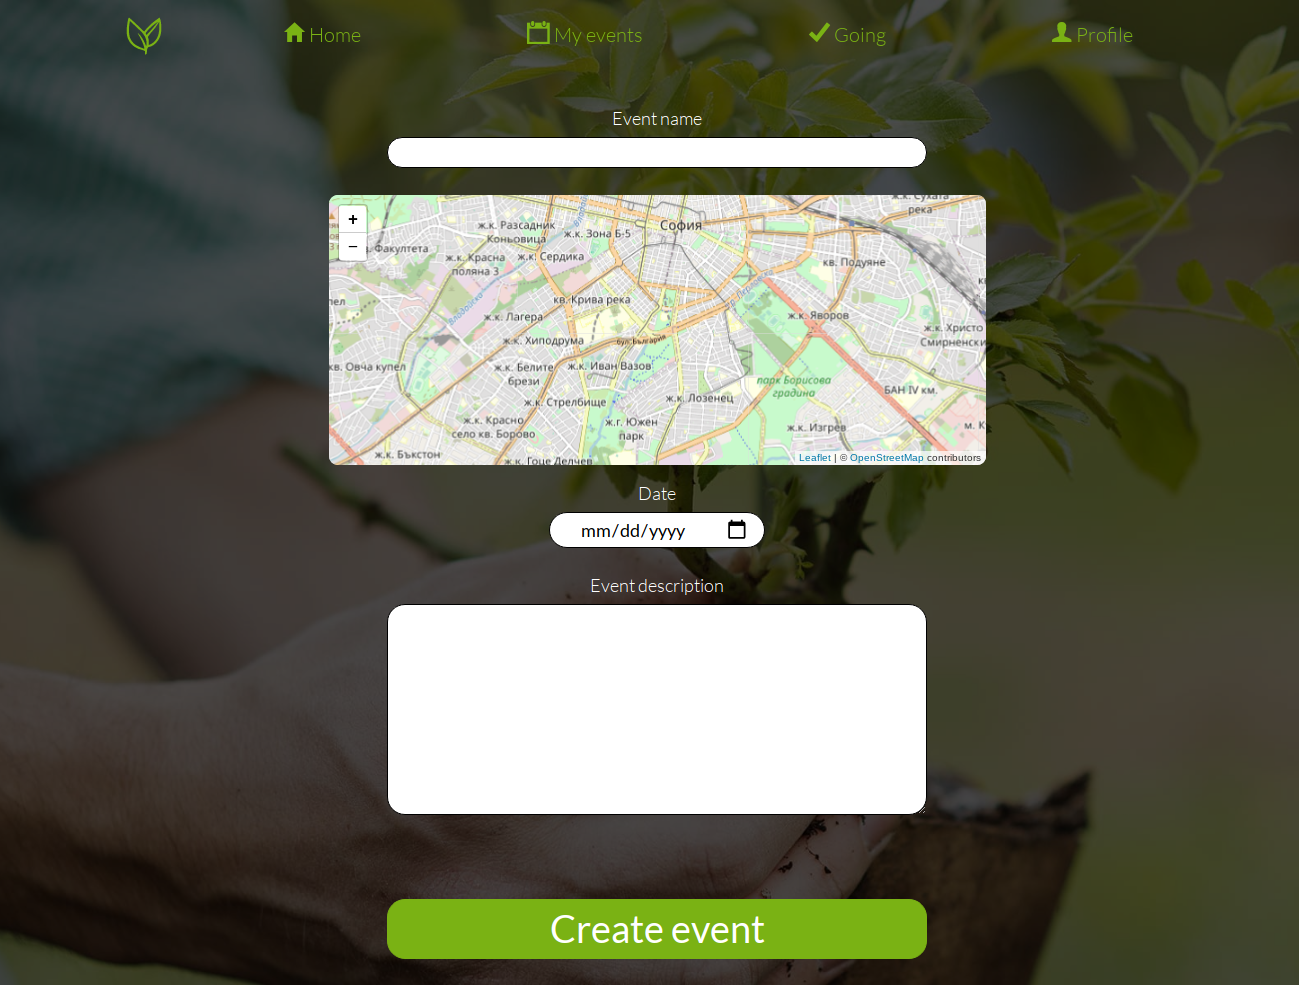
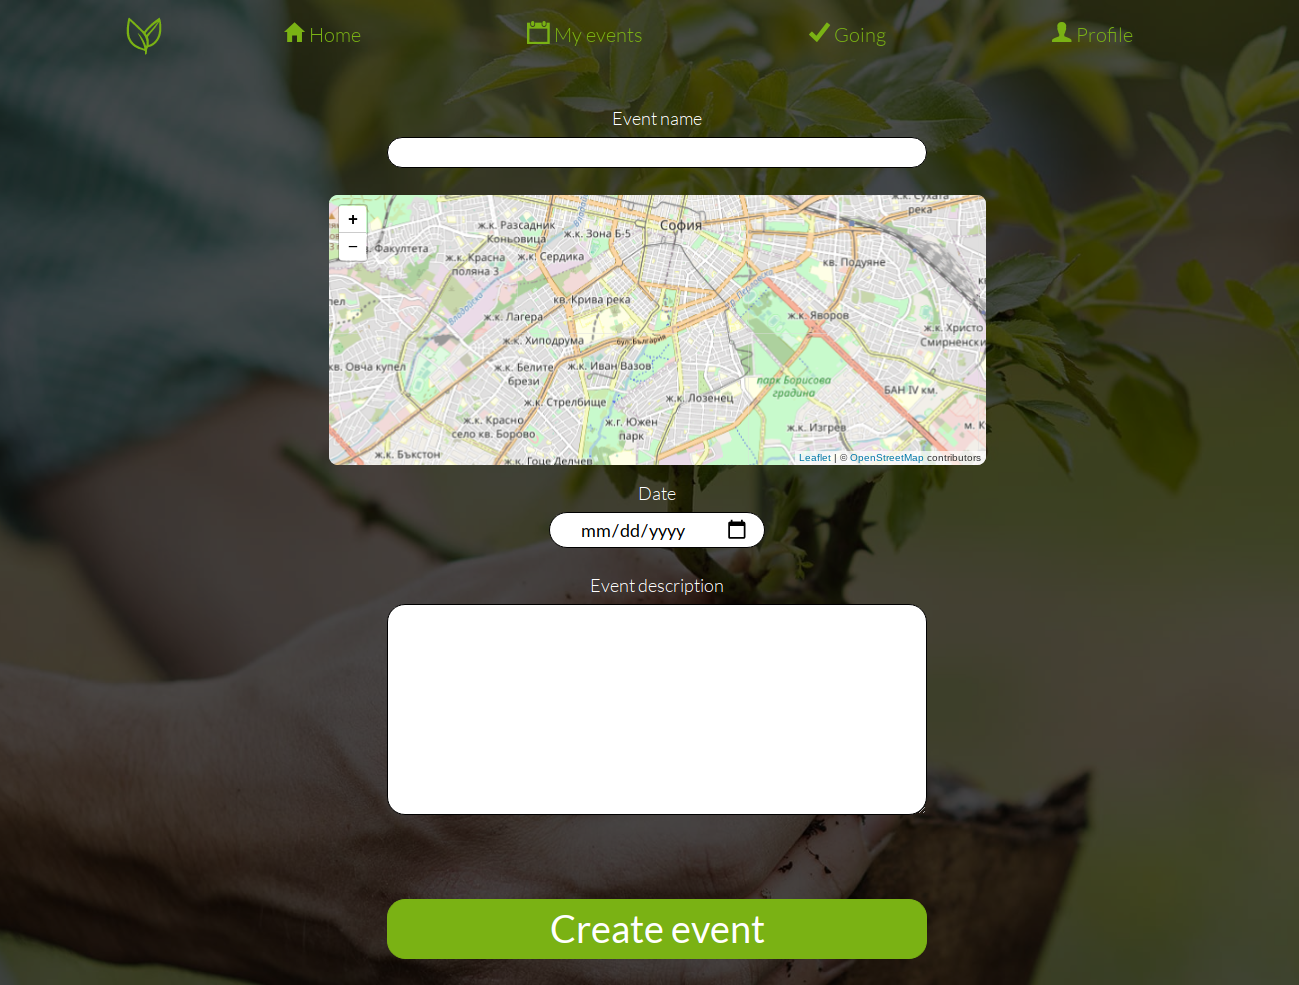
Cropped white pixel at the bottom of screenshots
Also removed comment, which Prettier formatted in intrusive way

diff --git a/README.md b/README.md
@@ -91,9 +91,6 @@ Here's a list of libraries and projects that are used in this codebase:
 ![home page](./assets/home.png)
 ![my events page](./assets/my_events.png)
 ![going page](./assets/going.png)
-
-<!-- ![profile page](./assets/profile.png) <!-- add when profile page looks good -->
-
 ![event details page](./assets/event.png)
 ![comments section](./assets/comments.png)
 ![create event page](./assets/create_event.png)
